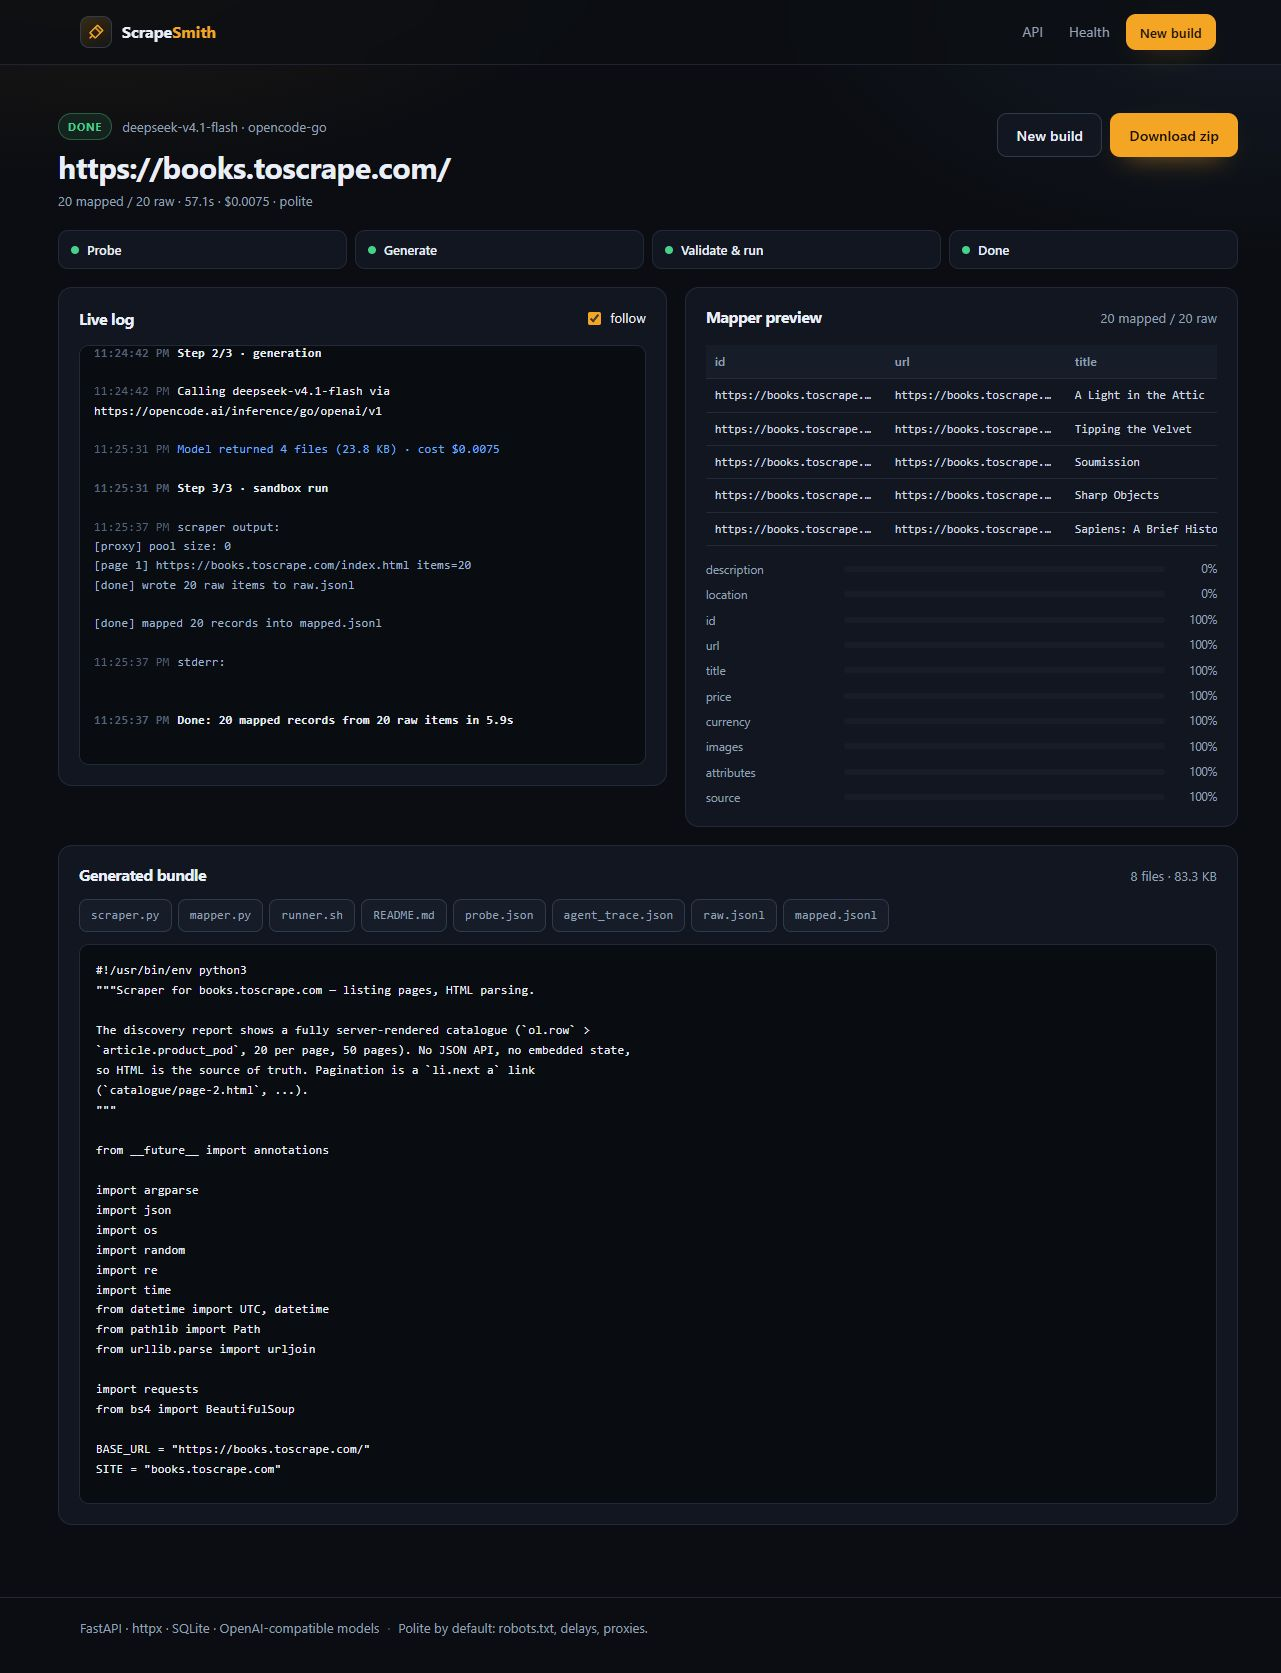
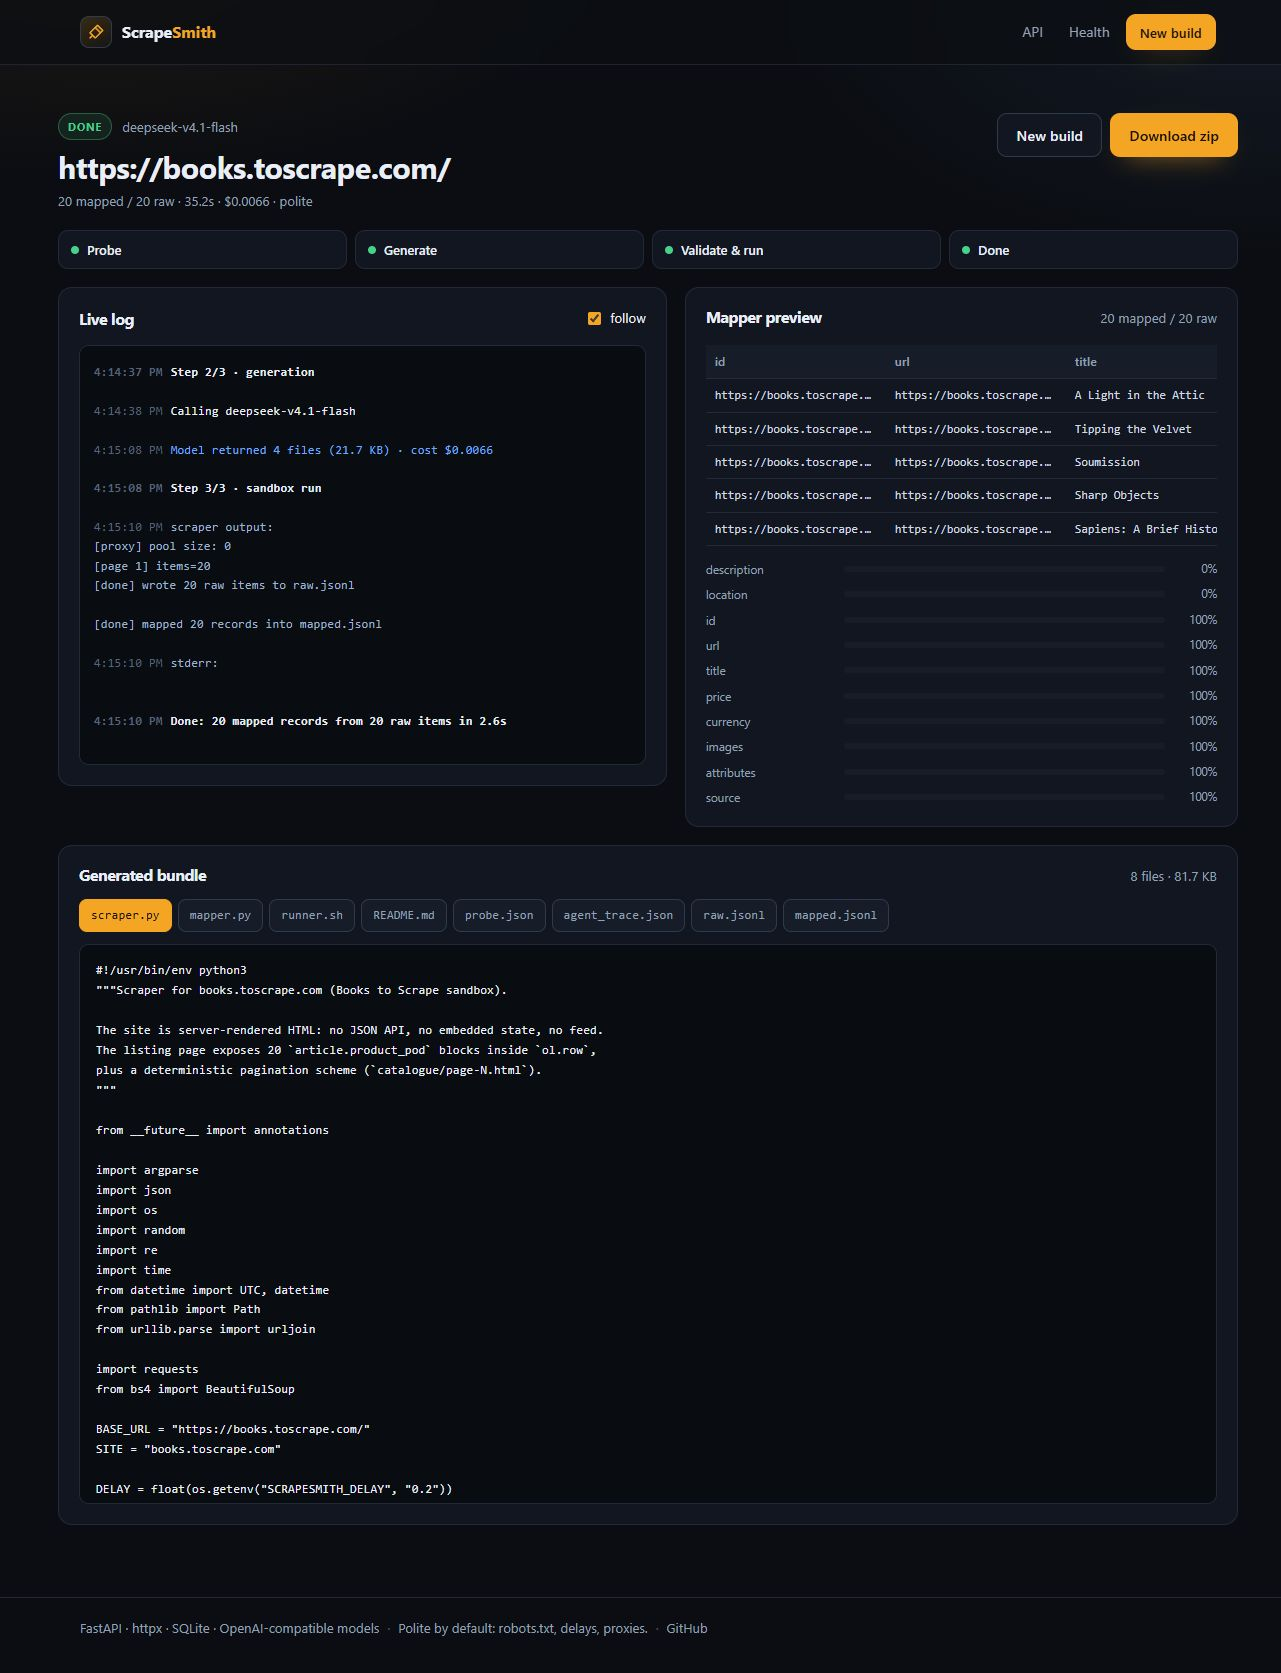
Remove provider branding from logs and refresh screenshots

diff --git a/app/static/js/job.js b/app/static/js/job.js
@@ -78,7 +78,7 @@ function init(root) {
 
   function renderHeader(job) {
     jobUrl.textContent = job.url;
-    jobModel.textContent = `${job.model} · ${job.provider}`;
+    jobModel.textContent = job.model;
     const bits = [];
     if (job.summary && job.summary.mapped_count) {
       bits.push(`${job.summary.mapped_count} mapped / ${job.summary.raw_count} raw`);

diff --git a/app/pipeline.py b/app/pipeline.py
@@ -176,7 +176,7 @@ async def run_job(job_id: str, api_key: str | None) -> None:
             db.update_job(job_id, attempts=attempts)
             round_cost = 0.0
             if round_number == 1:
-                log(f"Calling {job['model']} via {job['base_url']}")
+                log(f"Calling {job['model']}")
                 bundle, round_cost, trace = await agent.build_bundle(
                     probe=probe,
                     options=options,
